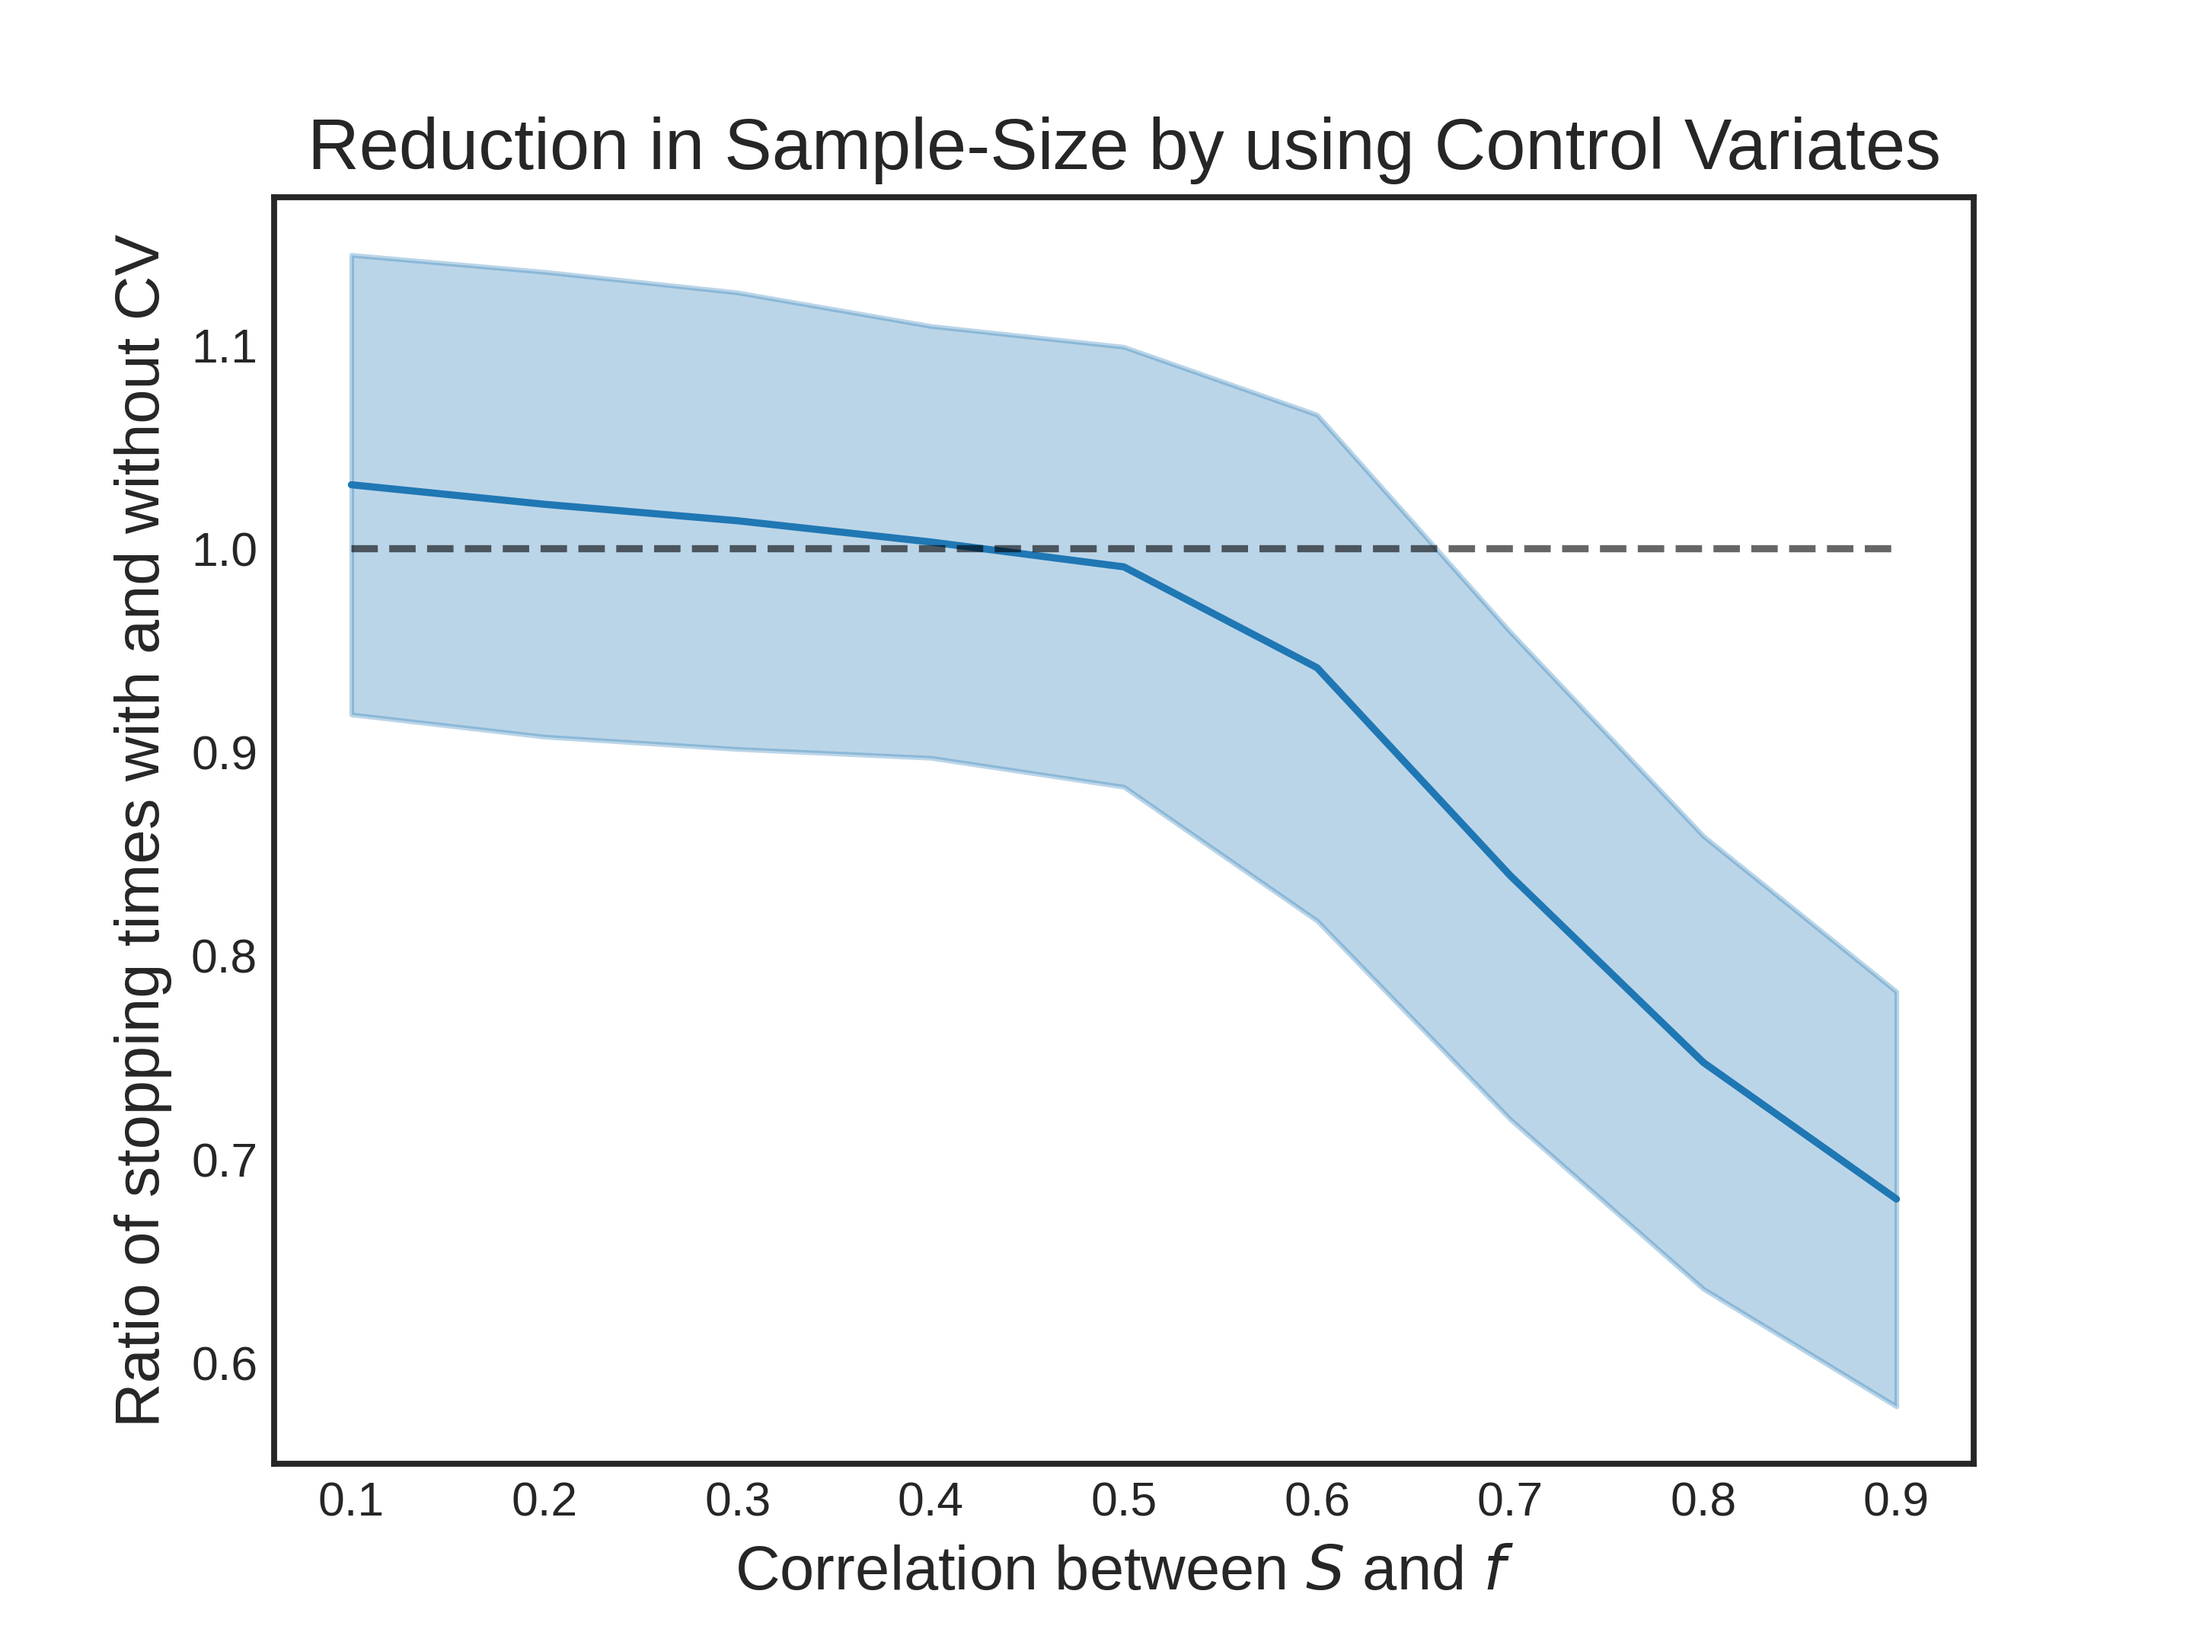
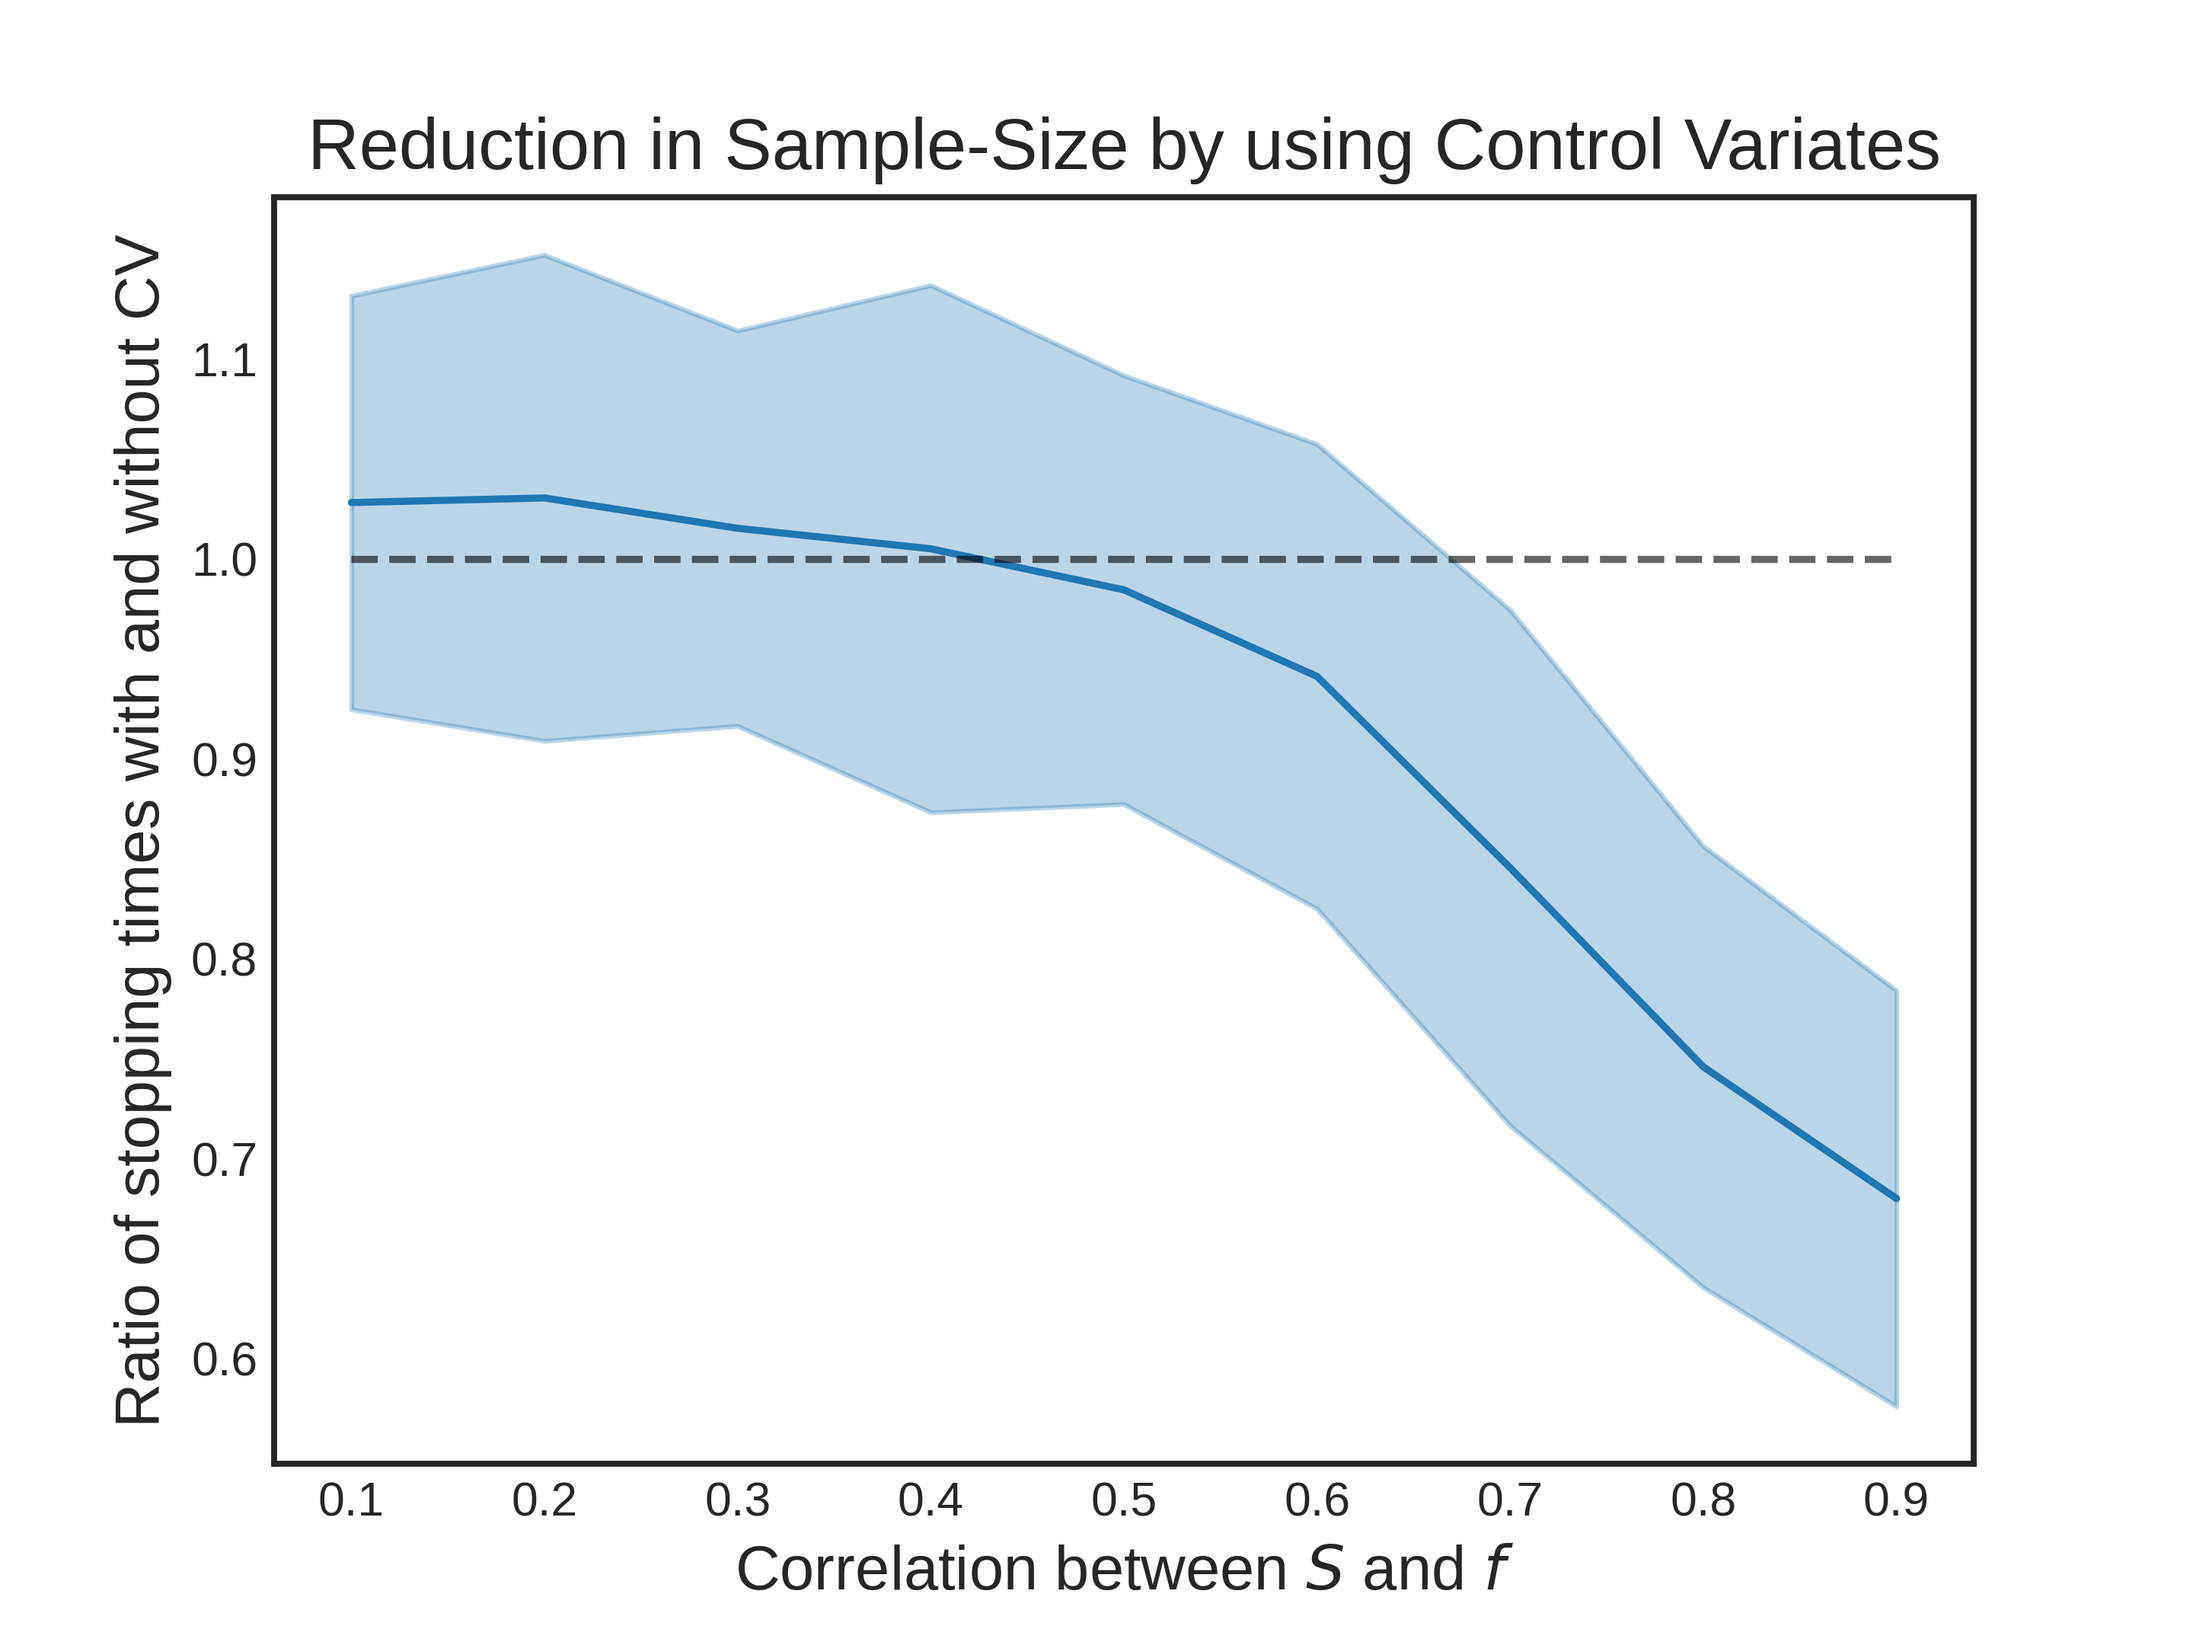
Updated Figures 3 and 4

diff --git a/data/CV_Gain_f_propto_M_large_40_eps_0_025.tex b/data/CV_Gain_f_propto_M_large_40_eps_0_025.tex
@@ -18,43 +18,43 @@ xmin=0.06, xmax=0.94,
 xtick style={color=darkslategray38},
 y grid style={lightgray204},
 ylabel=\textcolor{darkslategray38}{Ratio of stopping times with and without CV},
-ymin=0.550311145064279, ymax=1.17238996598734,
+ymin=0.547065771174321, ymax=1.18082835565563,
 ytick style={color=darkslategray38}
 ]
 \path [draw=steelblue31119180, fill=steelblue31119180, opacity=0.3]
-(axis cs:0.1,1.14411365594538)
---(axis cs:0.1,0.918415916485952)
---(axis cs:0.2,0.907519684385441)
---(axis cs:0.3,0.901473935942373)
---(axis cs:0.4,0.897128829602495)
---(axis cs:0.5,0.882898281459341)
---(axis cs:0.6,0.817150749800455)
---(axis cs:0.7,0.719671598589625)
---(axis cs:0.8,0.636365697019755)
---(axis cs:0.9,0.578587455106236)
---(axis cs:0.9,0.782327734946109)
---(axis cs:0.9,0.782327734946109)
---(axis cs:0.8,0.858759052621771)
---(axis cs:0.7,0.959014358719994)
---(axis cs:0.6,1.06565423868813)
---(axis cs:0.5,1.09897344561247)
---(axis cs:0.4,1.10919328377711)
---(axis cs:0.3,1.12568377389026)
---(axis cs:0.2,1.13582017561088)
---(axis cs:0.1,1.14411365594538)
+(axis cs:0.1,1.1316000527723)
+--(axis cs:0.1,0.924691799634826)
+--(axis cs:0.2,0.908885384661092)
+--(axis cs:0.3,0.916365789053448)
+--(axis cs:0.4,0.873148615712509)
+--(axis cs:0.5,0.877236593401993)
+--(axis cs:0.6,0.824895212114764)
+--(axis cs:0.7,0.71635555802216)
+--(axis cs:0.8,0.63545898189379)
+--(axis cs:0.9,0.575873161378016)
+--(axis cs:0.9,0.783970319525466)
+--(axis cs:0.9,0.783970319525466)
+--(axis cs:0.8,0.856179007956092)
+--(axis cs:0.7,0.974431586573793)
+--(axis cs:0.6,1.05739363587291)
+--(axis cs:0.5,1.09171298392158)
+--(axis cs:0.4,1.13688131443937)
+--(axis cs:0.3,1.11417430485676)
+--(axis cs:0.2,1.15202096545193)
+--(axis cs:0.1,1.1316000527723)
 --cycle;
 
 \addplot [semithick, steelblue31119180]
 table {%
-0.1 1.03126478621567
-0.2 1.02166992999816
-0.3 1.01357885491632
-0.4 1.0031610566898
-0.5 0.990935863535907
-0.6 0.941402494244293
-0.7 0.83934297865481
-0.8 0.747562374820763
-0.9 0.680457595026173
+0.1 1.02814592620356
+0.2 1.03045317505651
+0.3 1.0152700469551
+0.4 1.00501496507594
+0.5 0.984474788661788
+0.6 0.941144423993837
+0.7 0.845393572297977
+0.8 0.745818994924941
+0.9 0.679921740451741
 };
 \addplot [semithick, black, opacity=0.6, dashed]
 table {%

diff --git a/src/Experiment3.py b/src/Experiment3.py
@@ -212,11 +212,11 @@ def GainExperiment(Corr,
     if inv_prop:
         figname = f'/CV_Gain_f_inv_propto_M_large_{N1}_eps_{epsilon}'.replace(
             '.', '_')
-        figname = '{FIG_DIR}' + figname
+        figname = f'{FIG_DIR}' + figname
     else:
         figname = f'/CV_Gain_f_propto_M_large_{N1}_eps_{epsilon}'.replace(
             '.', '_')
-        figname = '{FIG_DIR}' + figname
+        figname = f'{FIG_DIR}' + figname
     # plot the results
     if plot_results:
         palette = sns.color_palette(n_colors=10)
@@ -258,7 +258,7 @@ if __name__ == '__main__':
     inv_prop = args.f_method == 'inv'
 
     a = 0.1
-    corr = 0.9 # controls the correlation b/w f & S
+    corr = 0.7 # controls the correlation b/w f & S
     N2 = N - N1
     f_over_S_range = [1 - a, 1 + a]
     M_ranges = [[5e5, 9e5], [1e6, 1e6]]
